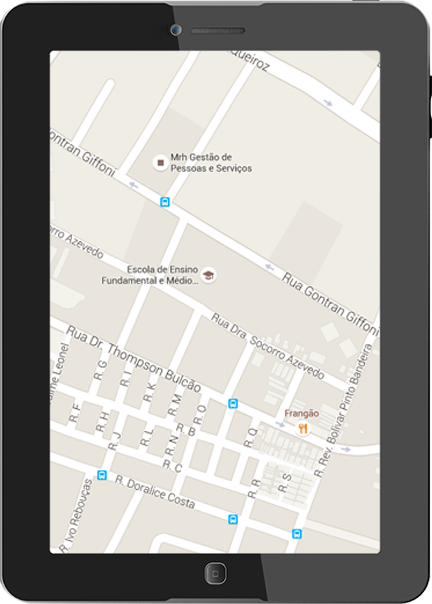
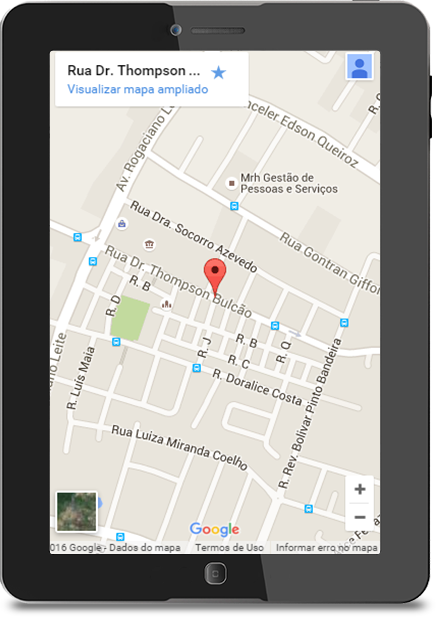
Ajustes contato

Changed region(s): [[0.0, 0.0, 1.0, 1.0], [0.662, 0.3874, 0.7222, 0.4172], [0.0903, 0.298, 0.1204, 0.3278]]

diff --git a/Css/contato.css b/Css/contato.css
@@ -1,8 +1,3 @@
-html,body{
-    margin:0;
-    height:100%;
-}
-
 textarea {
     resize: none;
 }
@@ -59,6 +54,7 @@ img#tablet{
     z-index: 9999;
     margin: -27% 1% 2% 59%;
     width: 23%;
+    cursor: pointer;
 }
 
 img#tablet2{
@@ -67,6 +63,8 @@ img#tablet2{
     position: relative;
     float: none;
     margin: 0 auto;
+    cursor: pointer;
+
 }
 
 div.endereco{
@@ -166,21 +164,6 @@ img#retangulo2{
 div#atendimentos{
     position:relative;
     margin-top: -10%;
-
-}
-
-div.mapa{
-    height: 510px;
-}
-
-iframe#mapa{
-    width: 17.5%;
-    height: 100%;
-    border:0;
-    position: relative;
-    float: right;
-    margin-top: -31.5%;
-    right: 20.8%;
 
 }
 

diff --git a/Pages/contato.php b/Pages/contato.php
@@ -43,10 +43,7 @@
     <img id="bg-baixoContato" src="Images/bg-baixoContato.png">
     <img id="retangulo" style="" src="Images/retangulo.png">
     <img id="retangulo2" src="Images/retangulo2.png">
-    <img id="tablet" src="Images/tablet.png">
-    <div class="mapa">
-        <iframe id="mapa" src="https://www.google.com/maps/embed?pb=!1m18!1m12!1m3!1d3981.1895789347805!2d-38.496696284624186!3d-3.7688868444365724!2m3!1f0!2f0!3f0!3m2!1i1024!2i768!4f13.1!3m3!1m2!1s0x7c748b364103923%3A0x84a1e567b49a3060!2sRua+Dr.+Thompson+Bulc%C3%A3o+-+Eng.+Luciano+Cavalcante%2C+Fortaleza+-+CE%2C+Brasil!5e0!3m2!1spt-BR!2sus!4v1452192886899" frameborder="0" allowfullscreen></iframe>
-    </div>
+    <a href="www.google.com" <abbr title="Clique e veja no mapa"> <img id="tablet" src="Images/tablet.png" title="Clique e veja no mapa."></abbr></a>
     <img id="tablet2" src="Images/tablet2.png">
     <div id="atendimentos">
         <div id="atendimento1">
